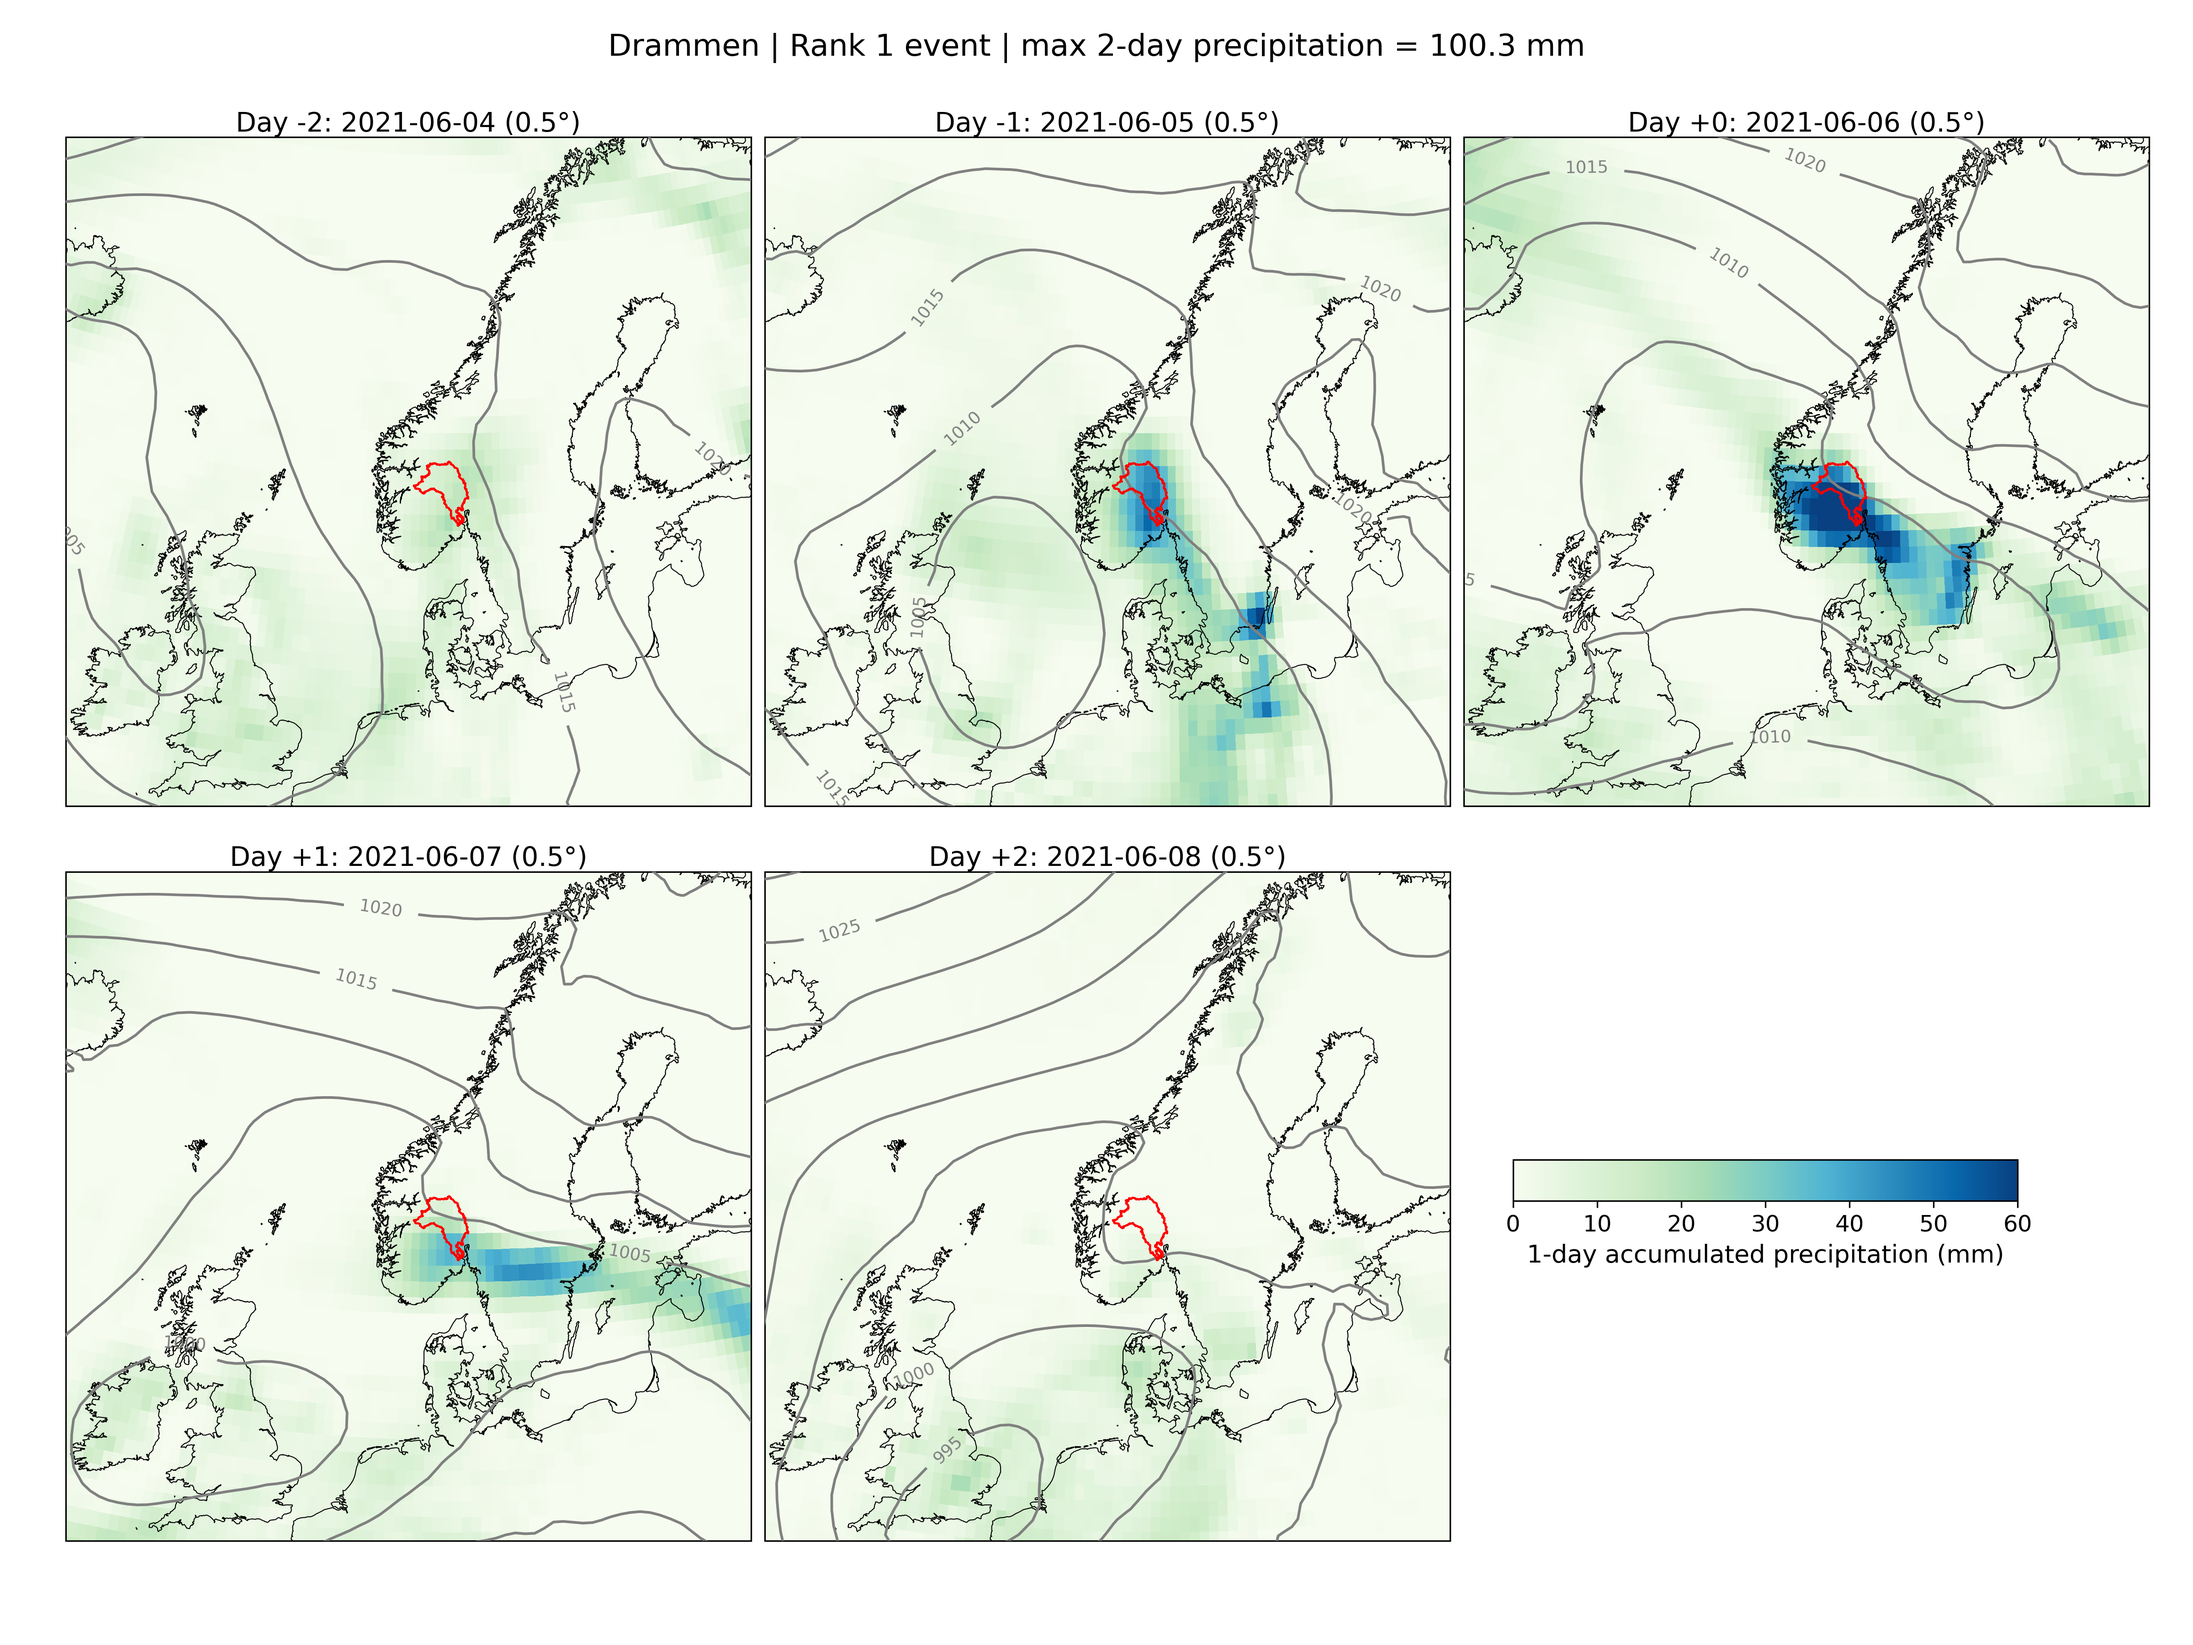
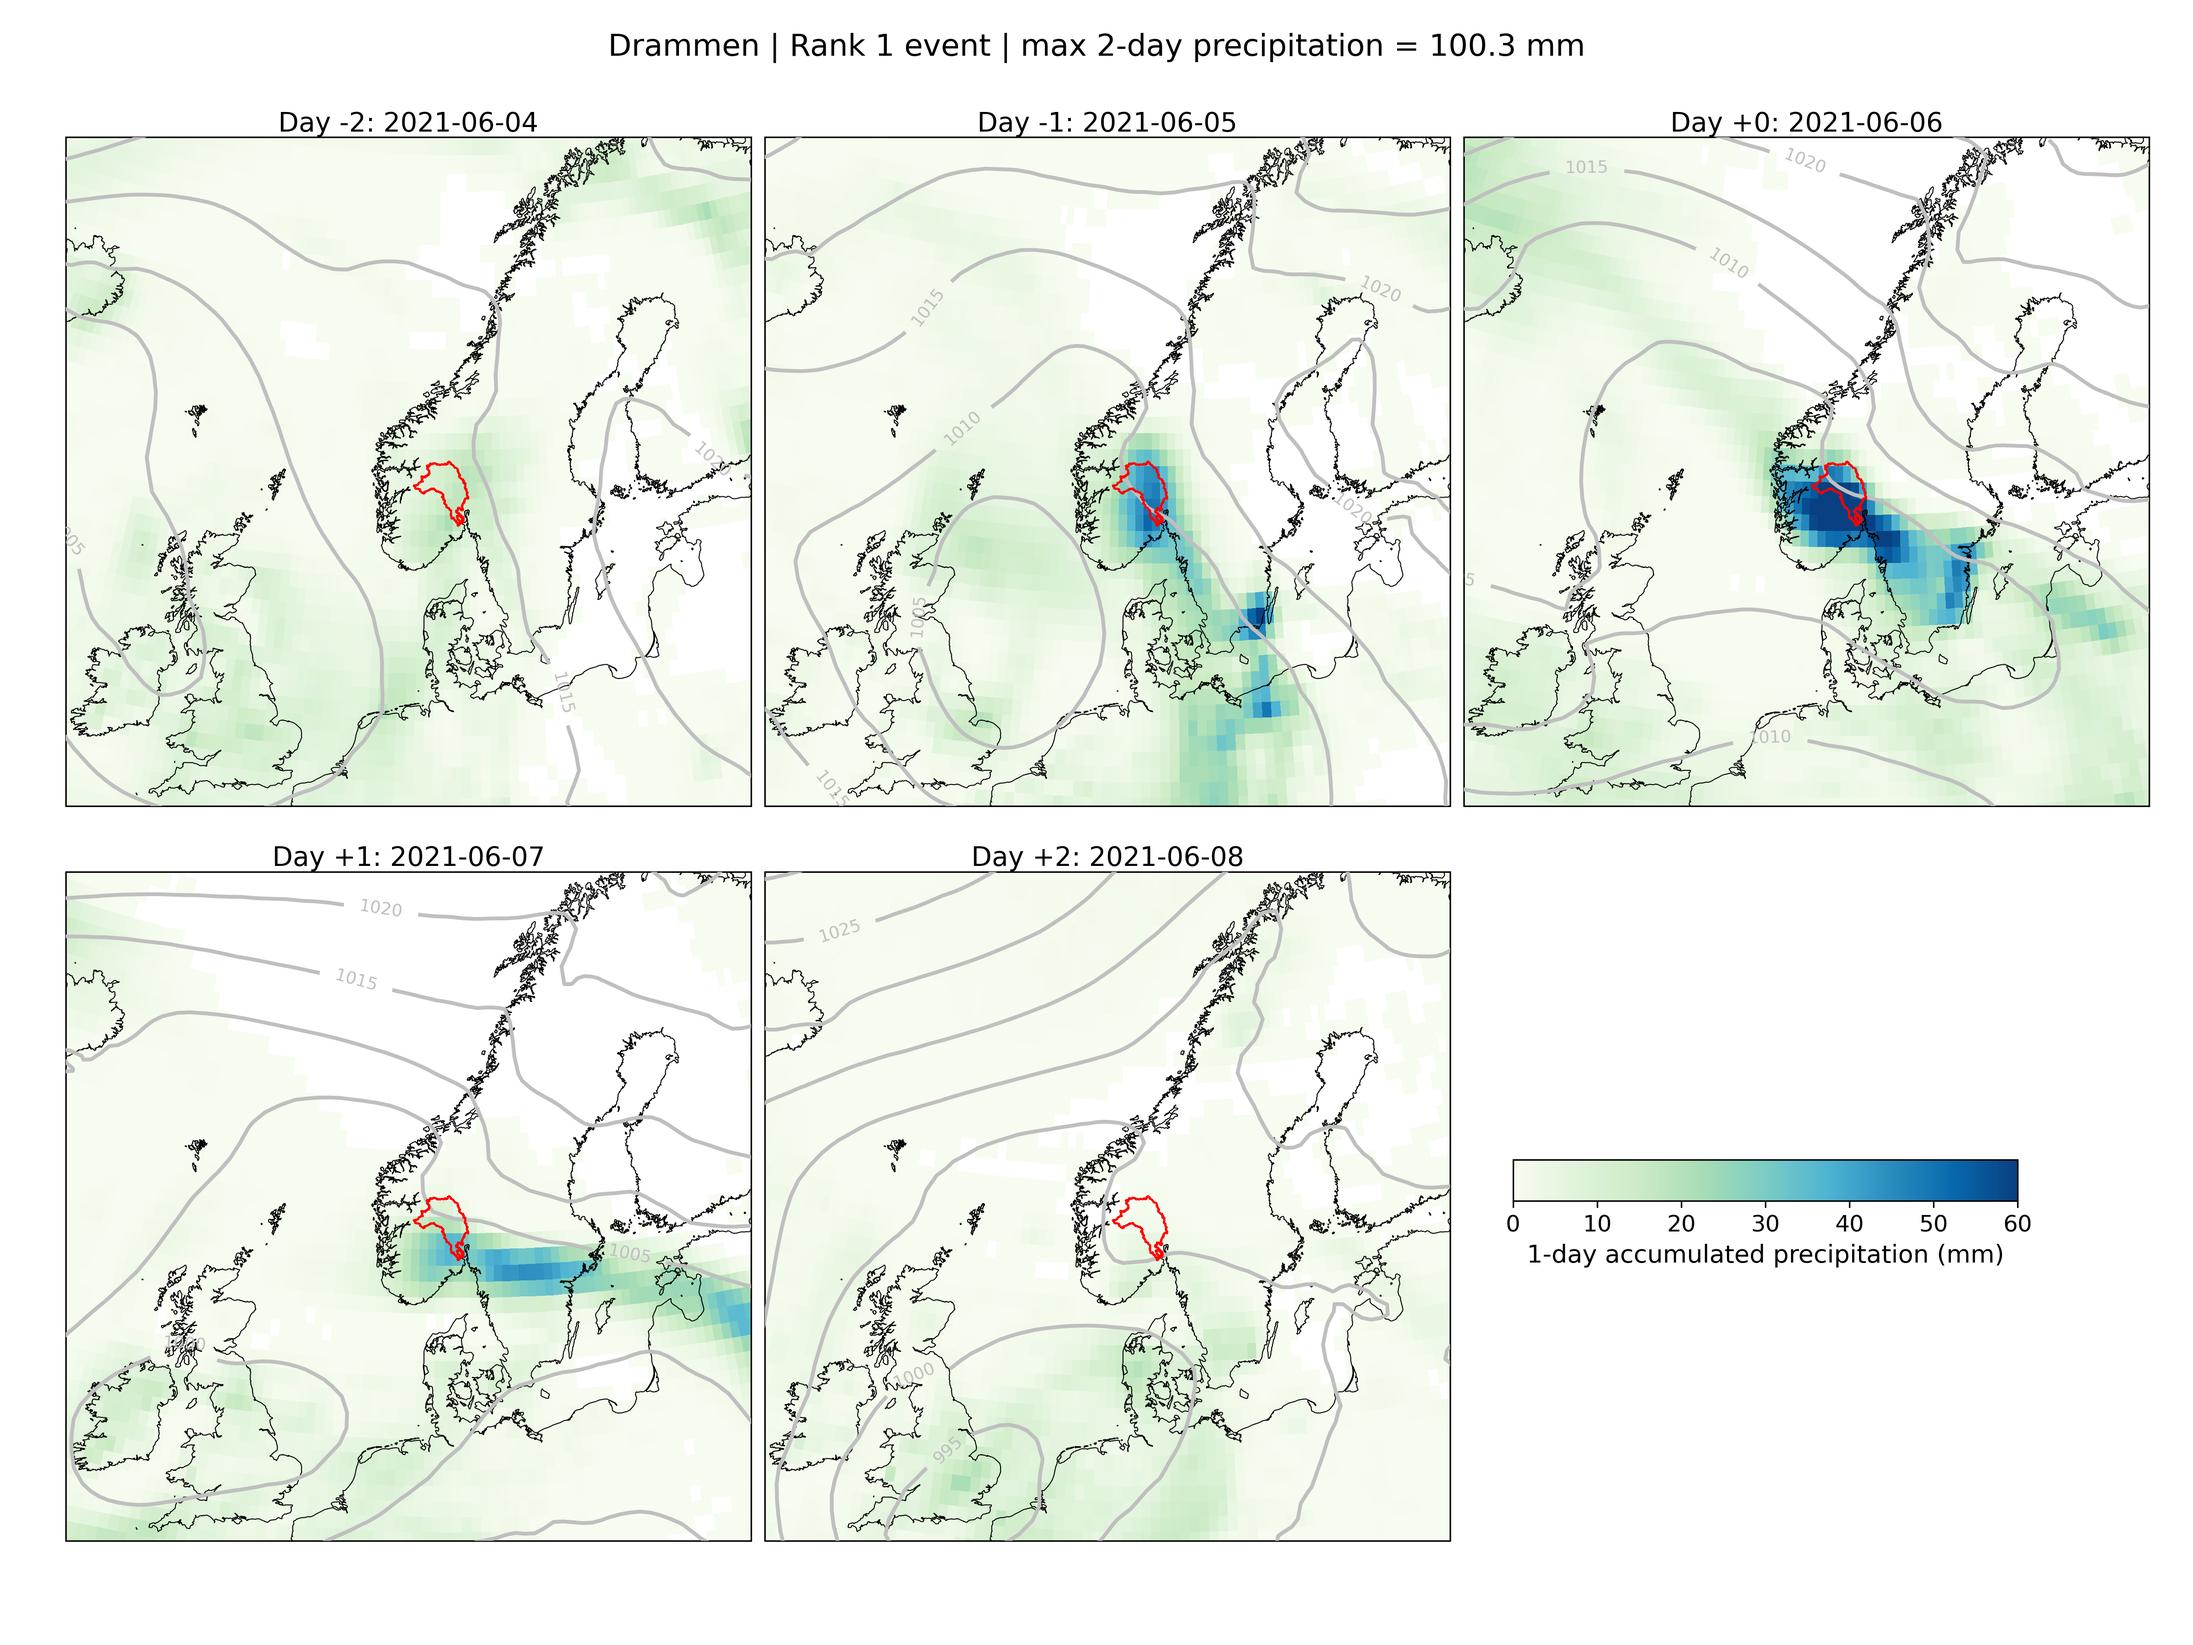
update

diff --git a/code/plot/paper_figs/plot-xy-evolution-may-top5-event-tp-msl.py b/code/plot/paper_figs/plot-xy-evolution-may-top5-event-tp-msl.py
@@ -25,6 +25,7 @@ import os
 import numpy as np
 import xarray as xr
 import matplotlib.pyplot as plt
+import matplotlib.colors as mcolors
 import cartopy.crs as ccrs
 import cartopy.feature as cfeature
 import geopandas as gpd
@@ -79,12 +80,14 @@ elif ACCUMULATION_DAYS == 2:
 else:
     raise ValueError("ACCUMULATION_DAYS must be either 1 or 2.")
 
-PRECIP_CMAP = "GnBu"
+PRECIP_CMAP = plt.get_cmap("GnBu").copy()
+PRECIP_CMAP.set_under("white")
+PRECIP_ZERO_THRESHOLD = 1e-12
 
 # Mean sea level pressure contours in hPa
 MSL_CONTOUR_LEVELS = np.arange(960, 1045, 5)
-MSL_CONTOUR_COLOR = "0.5"
-MSL_CONTOUR_LINEWIDTH = 1.4
+MSL_CONTOUR_COLOR = "0.75"
+MSL_CONTOUR_LINEWIDTH = 2
 
 CATCHMENT_CRS_IF_MISSING = "EPSG:4326"
 
@@ -555,7 +558,7 @@ def centers_to_edges(centers):
 # =============================================================================
 # Plotting helpers
 # =============================================================================
-def plot_precipitation(ax, da_precip, proj_data):
+def plot_precipitation2(ax, da_precip, proj_data):
     lon, lat = get_lon_lat(da_precip)
     precip = da_precip.values
 
@@ -578,6 +581,36 @@ def plot_precipitation(ax, da_precip, proj_data):
         precip,
         cmap=PRECIP_CMAP,
         vmin=PRECIP_LEVELS.min(),
+        vmax=PRECIP_LEVELS.max(),
+        shading="auto",
+        transform=proj_data,
+    )
+
+    return mesh
+
+def plot_precipitation(ax, da_precip, proj_data):
+    lon, lat = get_lon_lat(da_precip)
+    precip = da_precip.values
+
+    lon_edges = centers_to_edges(lon.values)
+    lat_edges = centers_to_edges(lat.values)
+
+    if lat_edges[0] > lat_edges[-1]:
+        lat_edges = lat_edges[::-1]
+        precip = precip[::-1, :]
+
+    if lon_edges[0] > lon_edges[-1]:
+        lon_edges = lon_edges[::-1]
+        precip = precip[:, ::-1]
+
+    lon_e, lat_e = np.meshgrid(lon_edges, lat_edges)
+
+    mesh = ax.pcolormesh(
+        lon_e,
+        lat_e,
+        precip,
+        cmap=PRECIP_CMAP,
+        vmin=PRECIP_ZERO_THRESHOLD,
         vmax=PRECIP_LEVELS.max(),
         shading="auto",
         transform=proj_data,
@@ -659,7 +692,7 @@ def finalize_figure(
         resolution_text = "+".join(resolutions)
 
         ax.set_title(
-            f"Day {lag:+d}: {date} ({resolution_text})",
+            f"Day {lag:+d}: {date}",
             fontsize=title_fontsize,
             pad=3,
         )
